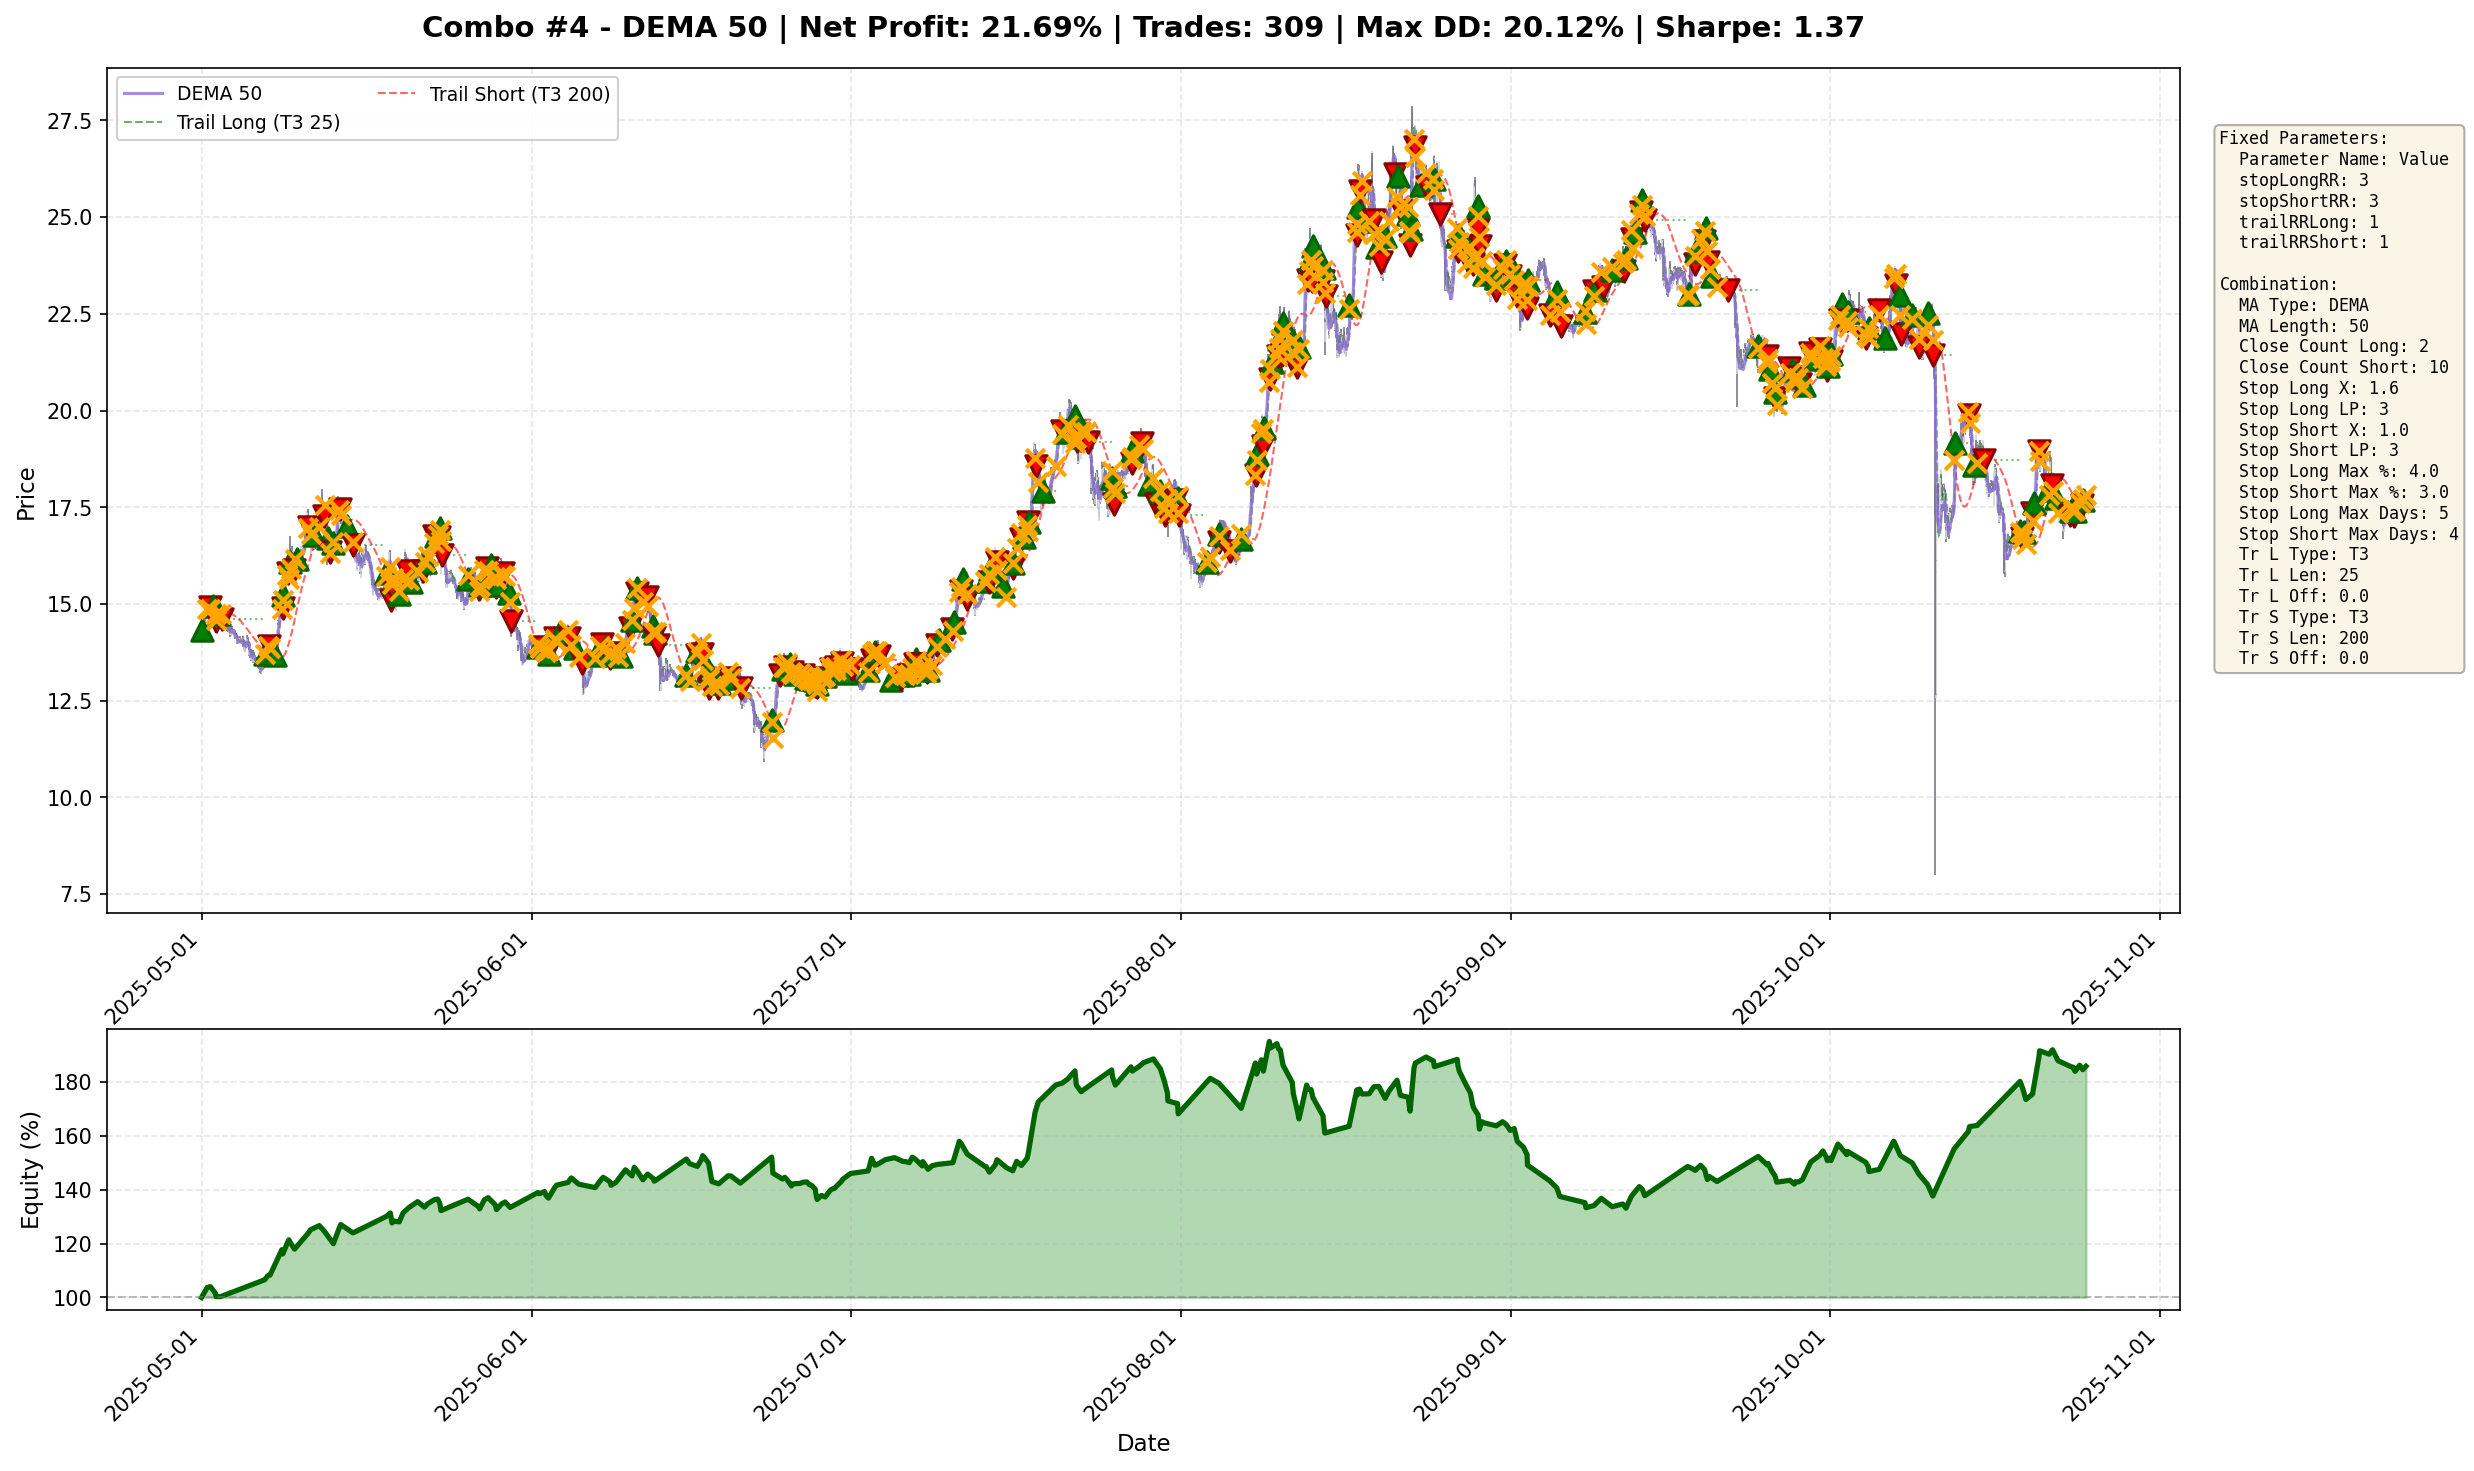
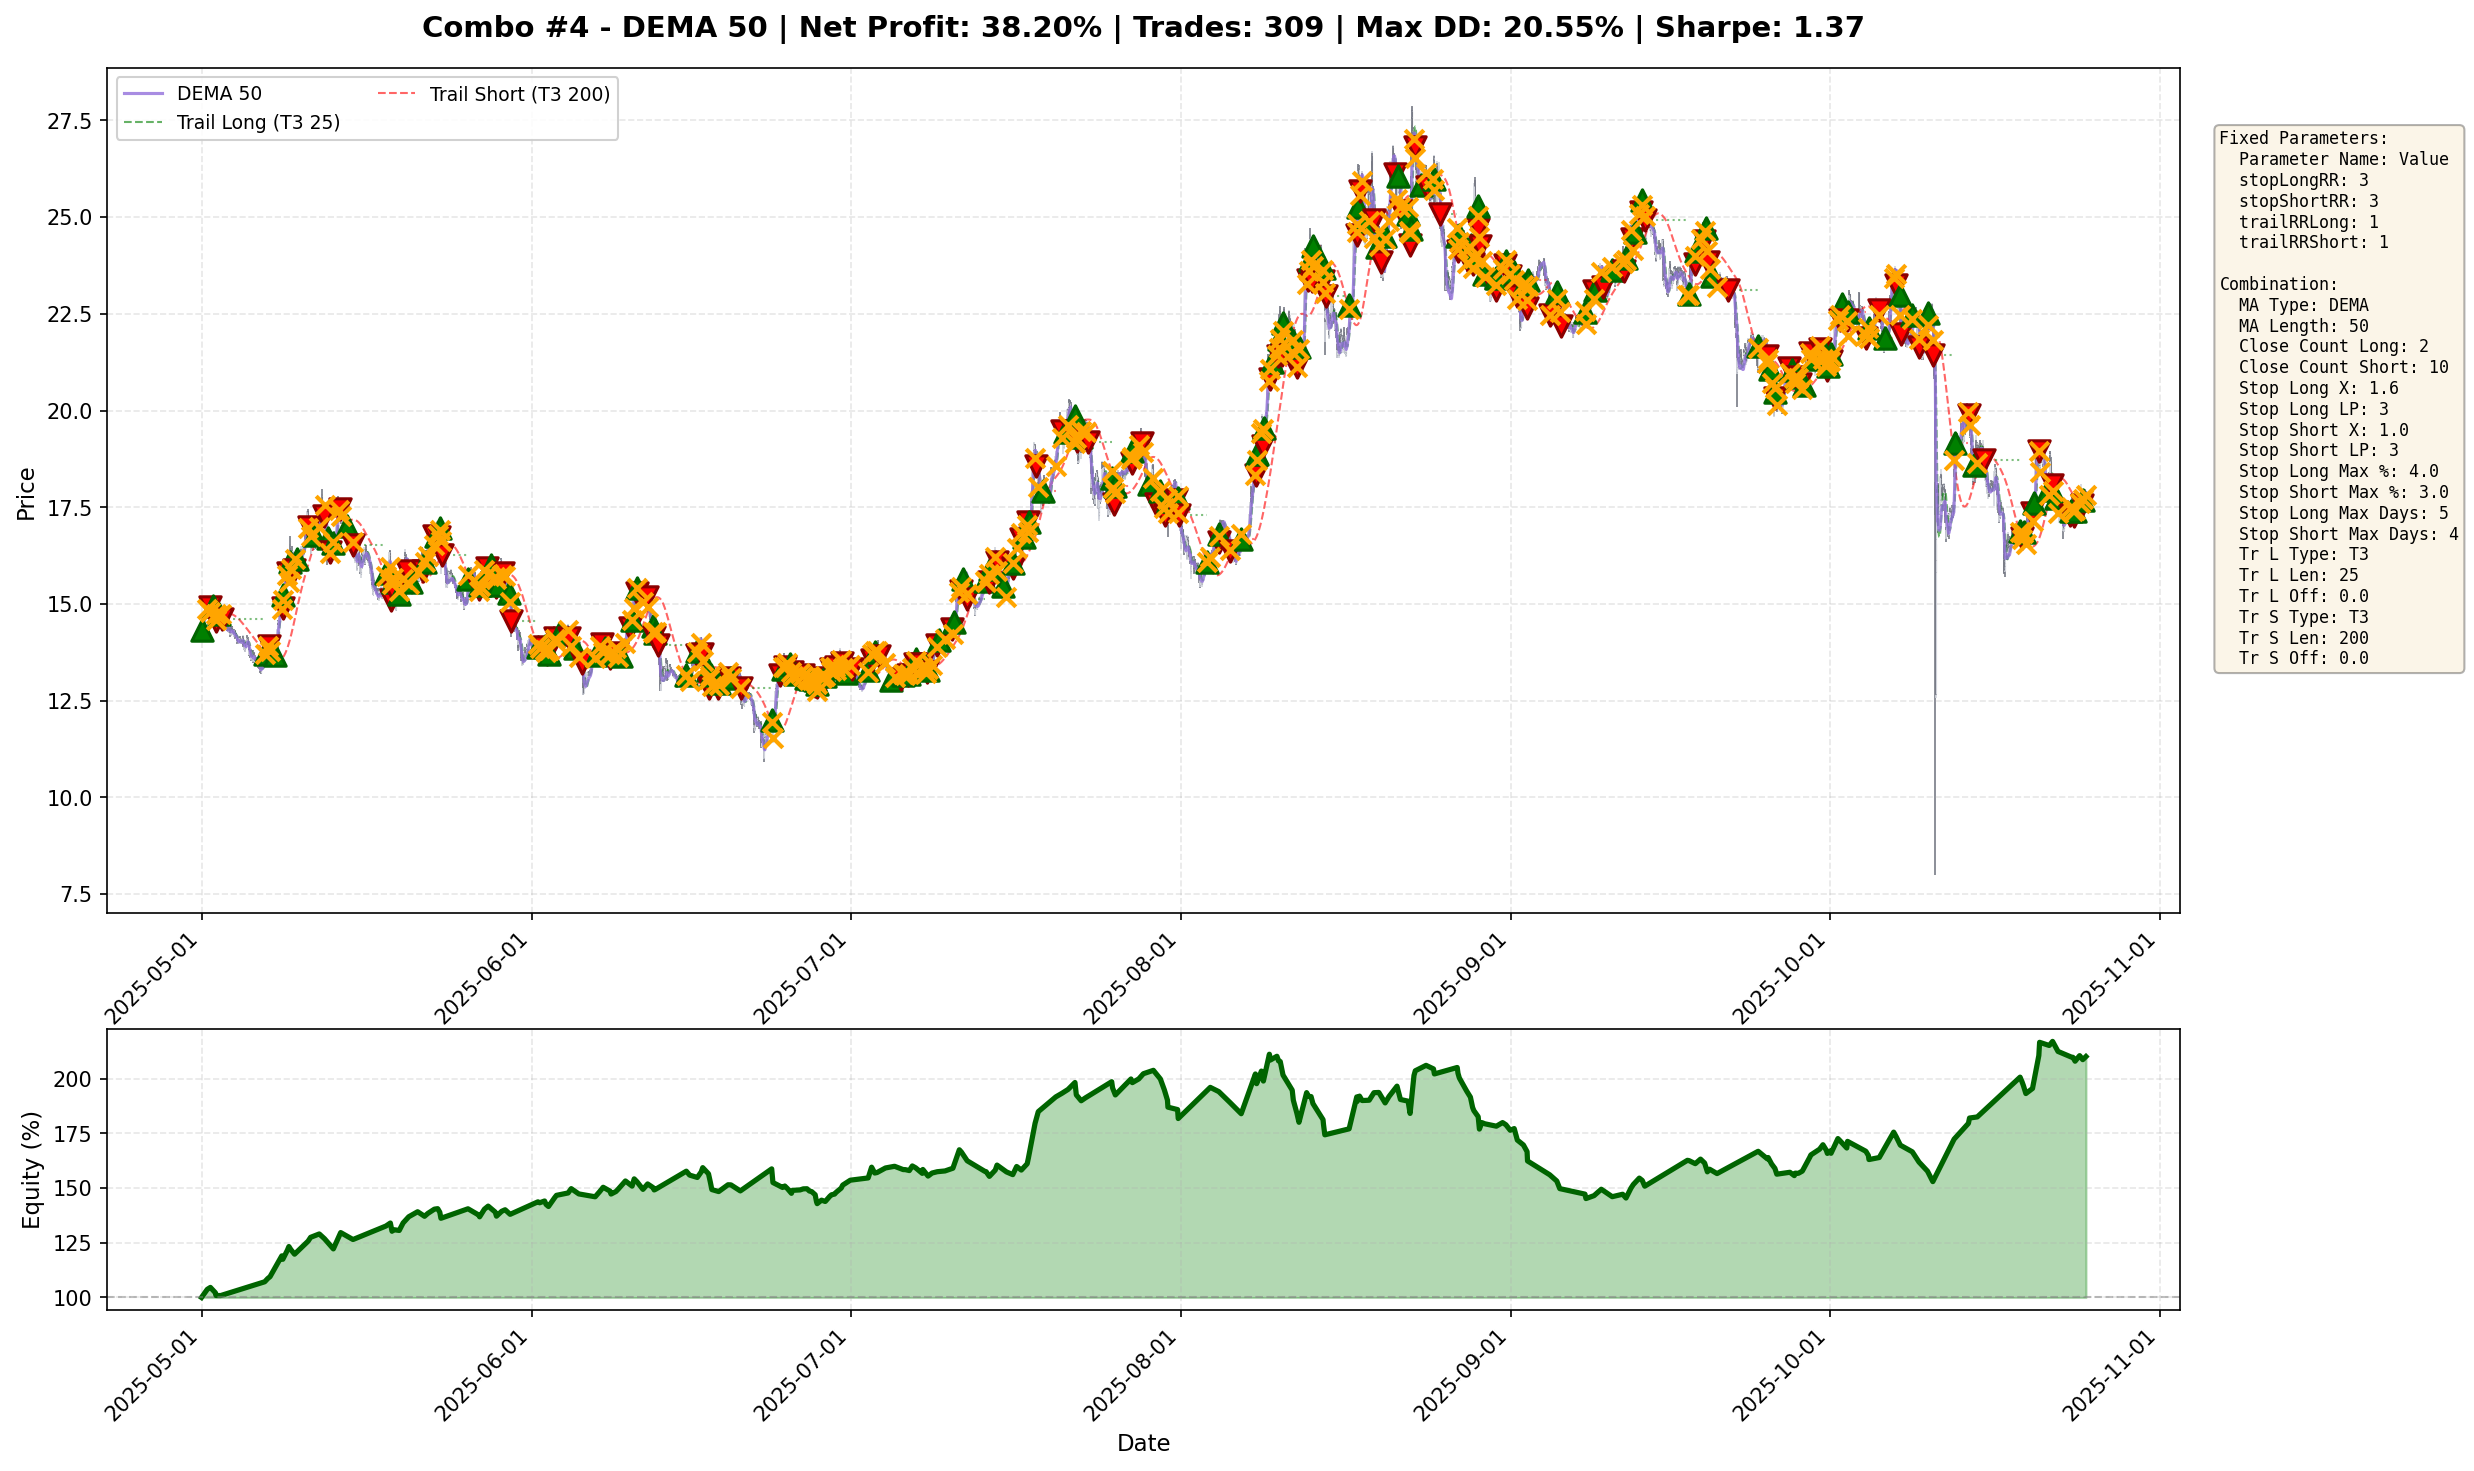
Fixed backtest_engine.py trailMA exit price #2
Заменена цена для такого выхода с Close на High для Long и Low для Short

diff --git a/backtest_engine.py b/backtest_engine.py
@@ -488,7 +488,7 @@ def run_strategy(df: pd.DataFrame, params: StrategyParams) -> StrategyResult:
                     trail_price_long = trail_long_value
             if trail_activated_long:
                 if not math.isnan(trail_price_long) and l <= trail_price_long:
-                    exit_price = c if trail_price_long > h else trail_price_long
+                    exit_price = h if trail_price_long > h else trail_price_long
             else:
                 if l <= stop_price:
                     exit_price = stop_price
@@ -539,7 +539,7 @@ def run_strategy(df: pd.DataFrame, params: StrategyParams) -> StrategyResult:
                     trail_price_short = trail_short_value
             if trail_activated_short:
                 if not math.isnan(trail_price_short) and h >= trail_price_short:
-                    exit_price = c if trail_price_short < l else trail_price_short
+                    exit_price = l if trail_price_short < l else trail_price_short
             else:
                 if h >= stop_price:
                     exit_price = stop_price
